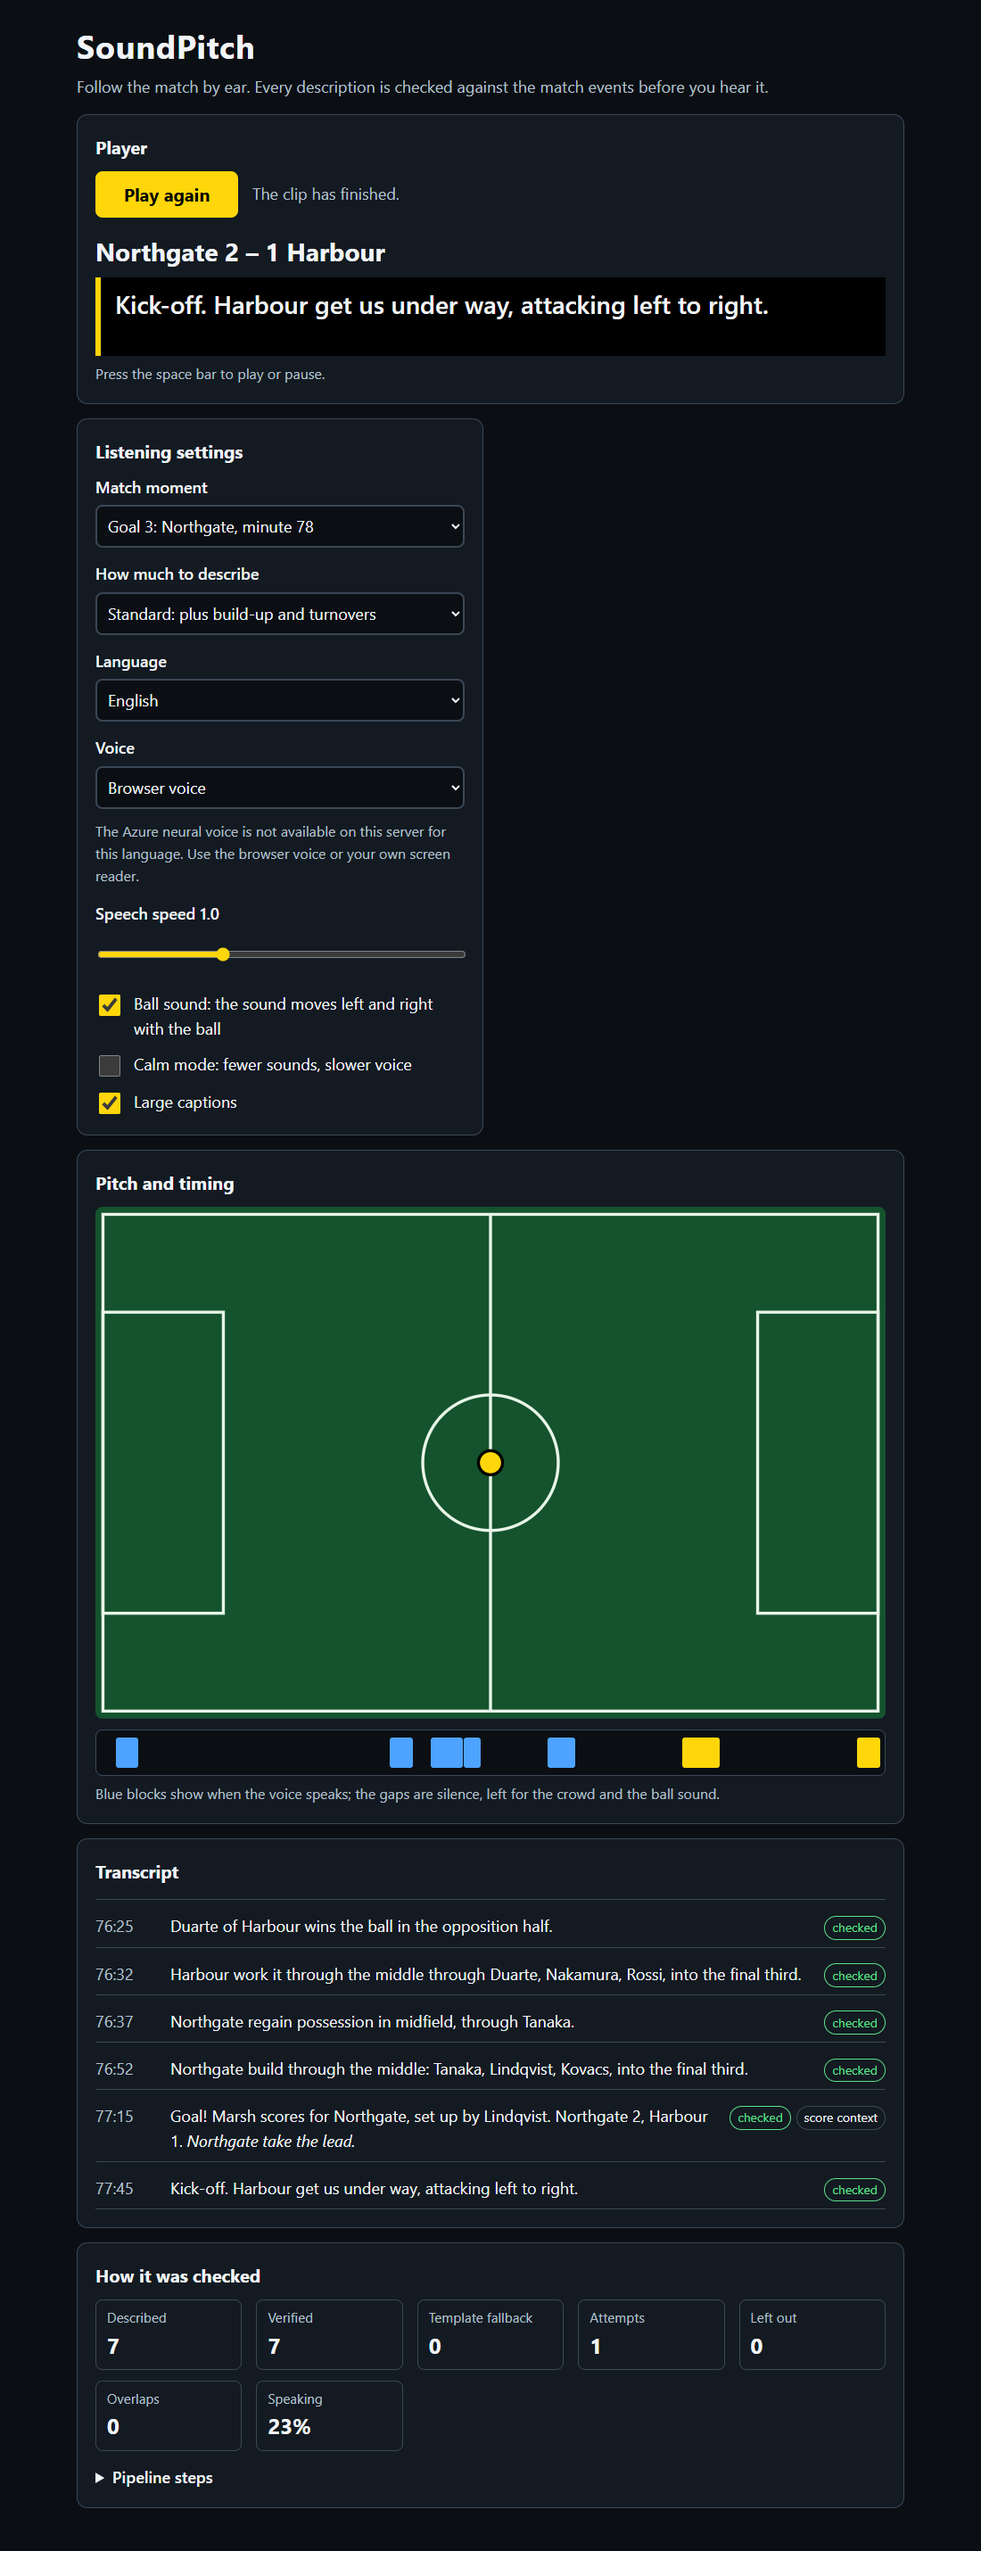
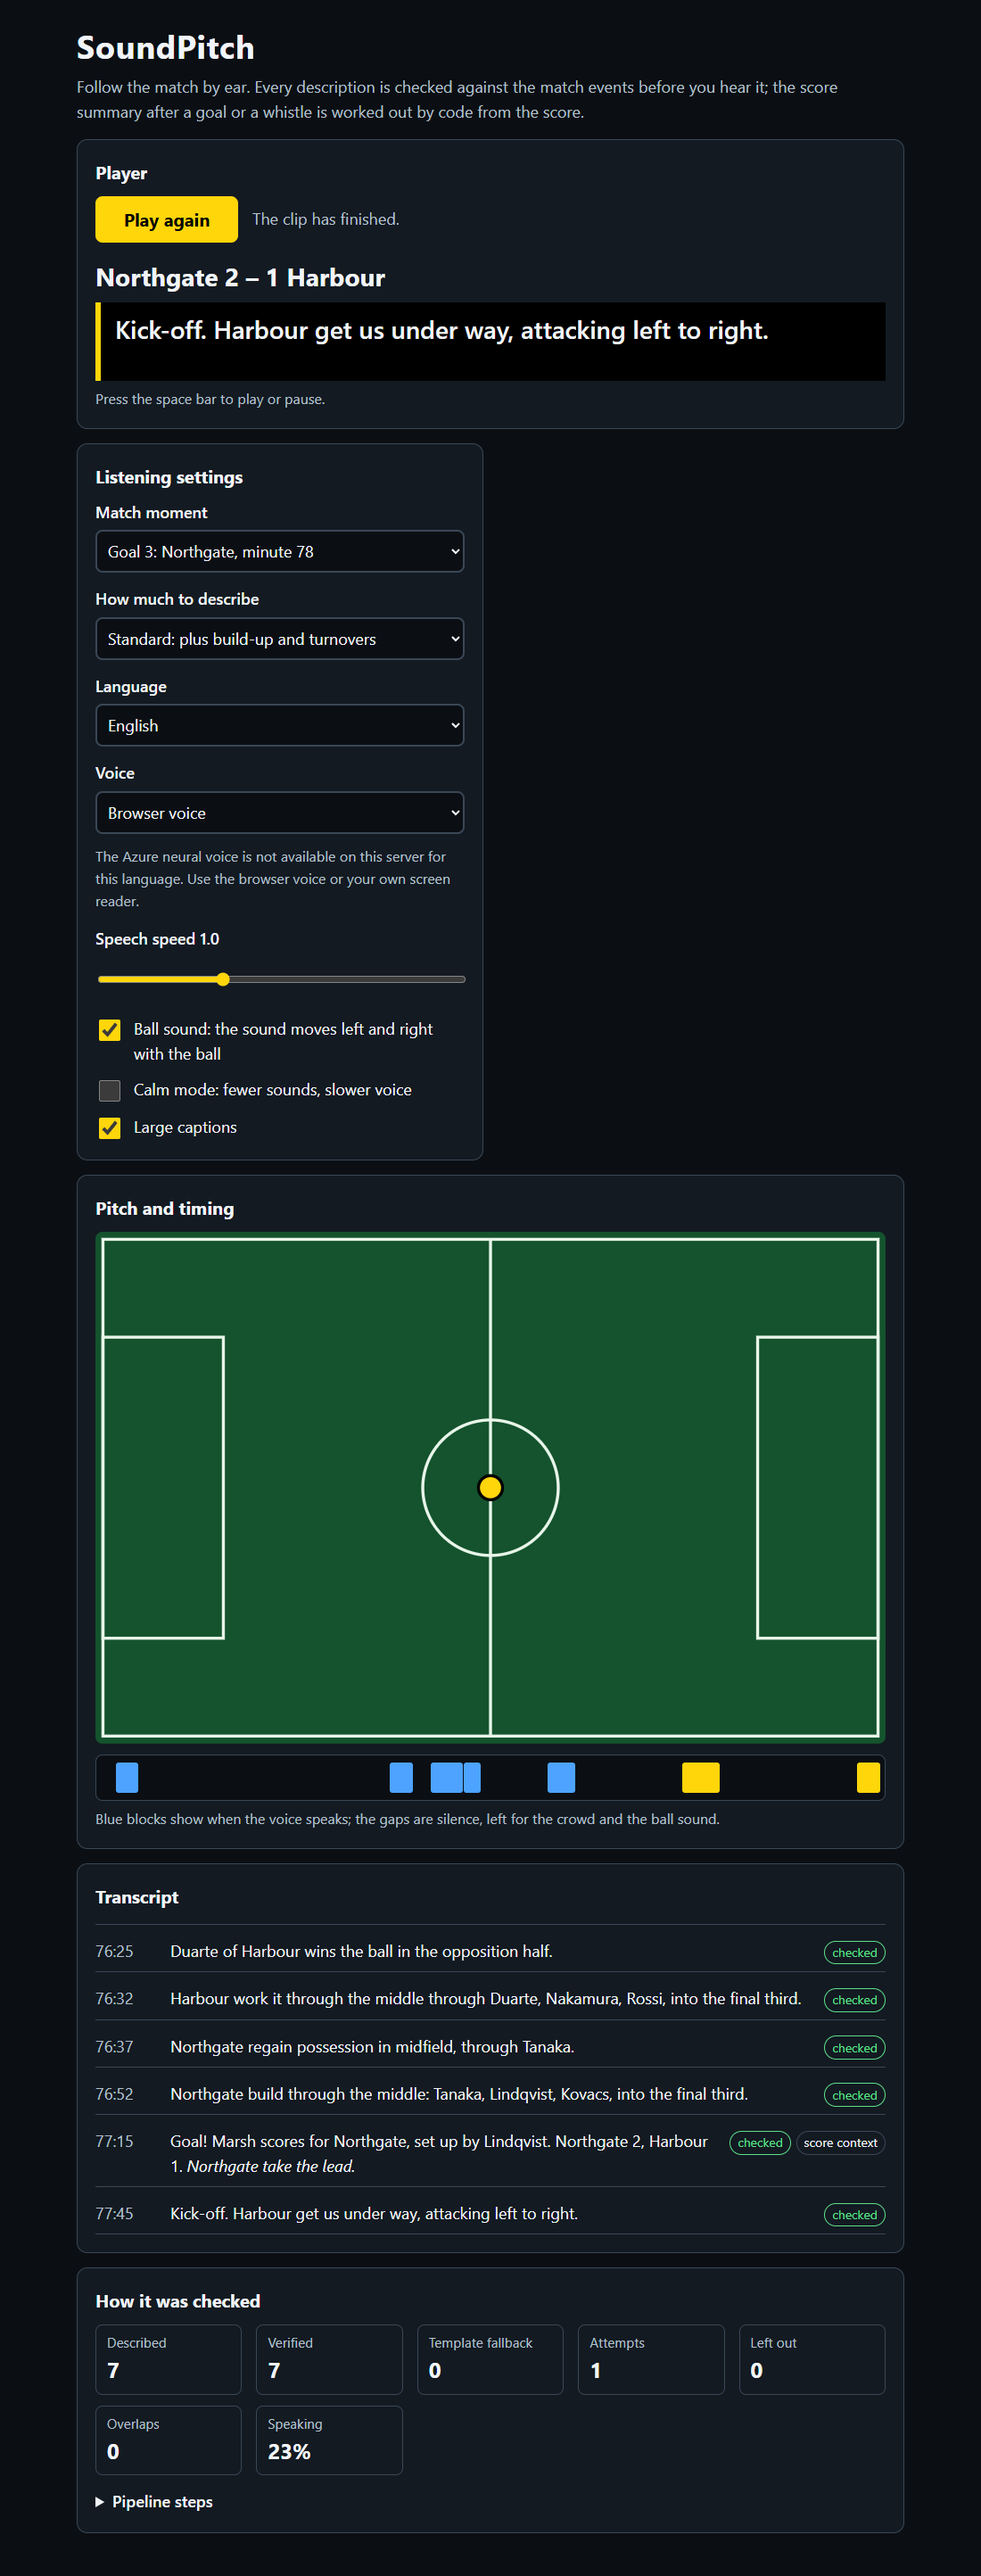
docs: qualify the verification claim, correct the D10 latency and stale evidence notes
- The page, pitch and demo script said every description is checked against
  the events; the score-context sentence (S31) is added after the verifier,
  so they now say it is computed by code. A test pins the page wording and
  the two README screenshots are retaken.
- D10 and T02 quoted a 2.7 s median and 4.7 s p95 that no recorded output
  supports; they now match docs/evidence/foundry-run.md (3.31 s, 4.52 s).
- Acceptance rows are S1-S32 (CLAUDE.md, README), the README status is
  dated 21 Oct, and the evidence notes no longer call the replay run
  pre-ledger or imply a Speech clip exists.

diff --git a/frontend/index.html b/frontend/index.html
@@ -16,7 +16,7 @@
     <header class="top">
       <h1>SoundPitch</h1>
       <p class="tagline">
-        Follow the match by ear. Every description is checked against the match events before you hear it.
+        Follow the match by ear. Every description is checked against the match events before you hear it; the score summary after a goal or a whistle is worked out by code from the score.
       </p>
     </header>
 

diff --git a/backend/tests/test_stakes.py b/backend/tests/test_stakes.py
@@ -227,3 +227,11 @@ def test_the_italian_phrases_use_the_singular_with_a_club_name():
     for plural in ("passano", "allungano", "aumentano", "accorciano", "vincono"):
         assert plural not in italian
     assert "{team}" in PHRASES["it"]["lead"] and PHRASES["it"]["lead"].startswith("{team} passa ")
+
+
+def test_the_page_does_not_say_the_score_context_is_checked_against_the_events():
+    """The context sentence is appended after the verifier, so the page's own claim must not cover it (S31)."""
+    page = (main.FRONTEND / "index.html").read_text(encoding="utf-8")
+    claim = page.split('class="tagline"')[1].split("</p>")[0]
+    assert "checked against the match events" in claim
+    assert "worked out by code from the score" in claim  # the claim names what the verifier does not cover

diff --git a/docs/DECISIONS.md b/docs/DECISIONS.md
@@ -59,7 +59,7 @@ The verifier now derives the facts of a moment from the events (`describer.facts
 
 **Azure setup (2026-10-20), and its limits.** A Foundry account and project (Italy North) on a **pay-as-you-go** subscription, and one deployment, `soundpitch-mini`: model `gpt-4.1-mini` (2025-04-14), SKU `GlobalStandard`. Capacity was 10 (10 requests and 10,000 tokens per minute) and was lowered in place to **8 (8 requests and 8,000 tokens a minute)** on 2026-10-20, see D11; above it the service answers 429, which the pipeline treats as a failed attempt. The cheapest model that gives the quality needed was chosen: list price USD 0.40 per million input tokens and 1.60 per million output tokens (checked 2026-10-20). A budget of 5 EUR a month with alerts at 50%, 100% and a forecast exists on the resource group, and **it only sends e-mail**: Azure has no pay-as-you-go cutoff, and cost data arrives 8 to 24 hours late. Data is processed outside the region (GlobalStandard); the match is synthetic. Authentication is `az login` (`DefaultAzureCredential`), no key anywhere. In the app, the usage ledger (D11) decides every call. Settings are in the git-ignored `backend/.env`.
 
-**Live acceptance (S12), 2026-10-20.** `docs/evidence/foundry-run.md`: 26 calls, 81 of 81 moments verified at the first attempt in each language, no failed call, median latency 2.7 s, p95 4.7 s. Two things the run taught: a first prompt answered for 1 moment of 10 (the example reply in the prompt had one item), fixed with `items_expected` and a test; and the model mostly **copies** the template sentences it is shown: its wording differs from every template sentence in only 1.2% of English cues and 16.0% of Italian ones. (The run predates D11: it used per-process caps raised for the run and 6,000 output tokens. A new full run would need the ledger limits raised on purpose and was not done.) The verifier is not what limits it: the vocabulary and the positions are. Whether to give the model more room (richer templates, a reviewed vocabulary) or to accept that Foundry mostly confirms the templates is a product decision, not a verifier setting.
+**Live acceptance (S12), 2026-10-20.** `docs/evidence/foundry-run.md`: 26 calls, 81 of 81 moments verified at the first attempt in each language, no failed call, median latency 3.31 s, p95 4.52 s, slowest 4.81 s (the figures the run printed and the evidence file records; an earlier draft of this paragraph said 2.7 s and 4.7 s, which no recorded output supports). Two things the run taught: a first prompt answered for 1 moment of 10 (the example reply in the prompt had one item), fixed with `items_expected` and a test; and the model mostly **copies** the template sentences it is shown: its wording differs from every template sentence in only 1.2% of English cues and 16.0% of Italian ones. (The run predates D11: it used per-process caps raised for the run and 6,000 output tokens. A new full run would need the ledger limits raised on purpose and was not done.) The verifier is not what limits it: the vocabulary and the positions are. Whether to give the model more room (richer templates, a reviewed vocabulary) or to accept that Foundry mostly confirms the templates is a product decision, not a verifier setting.
 
 **Undo.** `az cognitiveservices account deployment delete -n <account> -g <resource-group> --deployment-name soundpitch-mini` removes the deployment (the cost hardening did not delete it, and created nothing). Capacity is restored with `az cognitiveservices account deployment create ... --sku-capacity 10`.
 

diff --git a/docs/evidence/cost-safety.md b/docs/evidence/cost-safety.md
@@ -43,12 +43,12 @@ The first seven limits stop the call **before** it reaches Azure. The Azure rows
 |---|---|
 | `tests/test_usage.py` (18) and the S21 tests in `tests/test_foundry.py`, with fakes | pass: 40 threads against a cap of 10 grant exactly 10; 4 processes against a cap of 15 grant exactly 15; a new ledger on the same file continues the count; day and month roll over with the UTC clock; failed, timed-out and cancelled calls keep their worst case and a late answer is settled; reservations in flight count; an unusable database refuses before the client is touched; an unusable ledger, an exhausted day, token or month limit all end in verified templates with the reason in the trace |
 | Race found by those tests and fixed | the first connection of concurrent threads could hit `database is locked` while switching to WAL; the call was refused (fail closed, the cap was never overshot) but it was an availability bug. Initialisation now runs once per file and process, with a retry until the busy timeout; 8 repeated runs are green |
-| Core suite, ruff, e2e (Playwright and axe-core), SDK adapter tests (Python 3.13), evaluation reproducibility | `pytest` 237 passed, 1 skipped (the SDK file); `ruff check` clean; `npm run e2e` 11 passed; SDK tests 11 passed; `docs/evaluation.md` regenerates identical |
+| Core suite, ruff, e2e (Playwright and axe-core), SDK adapter tests (Python 3.13), evaluation reproducibility | At the time of this change (2026-10-20): `pytest` 237 passed, 1 skipped (the SDK file); `ruff check` clean; `npm run e2e` 11 passed; SDK tests 11 passed; `docs/evaluation.md` regenerates identical. These counts are a dated snapshot: the suites have grown since; the commands to rerun them are in the README, "Tests and evaluation" |
 | One live smoke call, through the ledger, with an output allowance of 150 tokens (`kickoff`, essential, English: one moment) | 1 call. The provider reported 686 input and 34 output tokens; the ledger settled the call at 720 tokens and 411 micro-units (0.000411): the list price 686 x 0.40 + 34 x 1.60 per million = USD 0.0003288, times 1.25, counted 1:1 as euros) from a reserved worst case several times larger; the moment verified. A second process read the same totals from the file |
 | Azure deployment, read-only first | one deployment `soundpitch-mini`, capacity 10, no provisioned throughput, budget 5 EUR with spend 0 |
 | Azure deployment, one change | capacity 10 to 8, in place, same model, version and SKU. Reason: the application allows 2 calls a minute and the service counts each at about 3,200 tokens (prompt plus the 1,000 `max_tokens`), so about 6,400 a minute are needed; 8,000 leaves a margin and lowers the burst possible with the credential. Reversible with the same command and `--sku-capacity 10` |
 
-No further live evaluation was run. `docs/evidence/foundry-run.md` predates the ledger.
+No further live evaluation was run for this table. The first run in `docs/evidence/foundry-run.md` predates the ledger; its second run (the one that produced the replay file) was made under it, with limits raised for that run only.
 
 ## What is not covered
 

diff --git a/docs/submission/DEMO_SCRIPT.md b/docs/submission/DEMO_SCRIPT.md
@@ -10,7 +10,7 @@ Before recording: use headphones for stereo, open the deployed URL in Chrome, se
 | 0:10 to 0:35 | Choose "Goal 1: Northgate, minute 16", press Play. Let the voice and the ball sound run; the ball moves on the pitch. | (silence for a few seconds so the audio is heard) then: "It speaks like a radio commentator, and a sound moves across your headphones with the ball." |
 | 0:35 to 0:55 | The goal is announced; captions show it; the scoreline changes. | "When the goal comes, you hear who scored, the score, and what it means: here, the opening goal of the match." |
 | 0:55 to 1:10 | Point to the timeline: speech blocks, gaps, the yellow must-say block. | "Speech is planned into the gaps. A goal is never pushed out by routine play." |
-| 1:10 to 1:35 | Second page on the `always_bad` server. Open the report: "Template fallback", attempts 3. Open "Pipeline steps". Transcript badges say "template". | "Every name, team and score in a sentence is checked against the match events before it is spoken. Here a model keeps naming the wrong player. The verifier rejects it three times and a verified template takes over. The listener never hears a wrong name." |
+| 1:10 to 1:35 | Second page on the `always_bad` server. Open the report: "Template fallback", attempts 3. Open "Pipeline steps". Transcript badges say "template". | "Every name, team and score in a described sentence is checked against the match events before it is spoken; the score summary after a goal is computed by code. Here a model keeps naming the wrong player. The verifier rejects it three times and a verified template takes over. The listener never hears a wrong name." |
 | 1:35 to 1:48 | Switch to Italian, then calm mode, then "My own screen reader". | "Italian or English, a calm mode, large captions, or plain text for your own screen reader." |
 | 1:48 to 1:55 | Title card with the URL and the technologies. | "Built on [confirm: Microsoft Foundry, Agent Framework, Azure AI Speech, Azure Container Apps]. Open source." |
 

diff --git a/README.md b/README.md
@@ -4,7 +4,7 @@
 
 Built for the [Microsoft x Premier League "Inside the Game" hackathon](docs/hackathon/SUMMARY.md). All data is synthetic: the teams (Northgate Red, Harbour Blue) and the players are invented. This project is not affiliated with, endorsed by or sponsored by Microsoft or the Premier League.
 
-> **Status (20 Oct 2026).** Done and tested: the offline pipeline, the player page, the grounded verifier, the Foundry describer, the usage ledger, the replay mode with 26 recorded Foundry replies that cover all 30 demo windows, the guarded voice endpoint, the cue-sheet JSON export, the score-context sentence (S31) and the Agent Framework workflow. **Not done:** no public deployment yet (so no demo URL), Azure AI Speech has never been called (no voice clip exists, so the demo speaks with the browser's own voice), no blind or low-vision listener has tested it. Plan and deadline: [`ROADMAP.md`](ROADMAP.md).
+> **Status (21 Oct 2026).** Done and tested: the offline pipeline, the player page, the grounded verifier, the Foundry describer, the usage ledger, the replay mode with 26 recorded Foundry replies that cover all 30 demo windows, the guarded voice endpoint, the cue-sheet JSON export, the score-context sentence (S31) and the Agent Framework workflow. **Not done:** no public deployment yet (so no demo URL), Azure AI Speech has never been called (no voice clip exists, so the demo speaks with the browser's own voice), no blind or low-vision listener has tested it. Plan and deadline: [`ROADMAP.md`](ROADMAP.md).
 
 ## For judges
 
@@ -154,7 +154,7 @@ This repository was written with the help of an AI coding assistant (Claude Code
 ## Repository map
 
 ```
-SPEC.md            behaviour, test ids, acceptance rows S1-S31
+SPEC.md            behaviour, test ids, acceptance rows S1-S32
 CONTEXT.md         glossary and the map of the data contracts
 ROADMAP.md         done, tickets, schedule
 CLAUDE.md          instructions for the coding assistant used on this repo

diff --git a/docs/evidence/README.md b/docs/evidence/README.md
@@ -1,7 +1,7 @@
 # Evidence
 
-Small files that prove a manual acceptance row (SPEC S12, S14 and S21): a short mp3 from Azure AI Speech, a screenshot of the page using it, and the output of a real model run. Keep each file small, and never include keys, endpoints with secrets, or personal data.
+Small files that prove a manual acceptance row (SPEC S12, S14 and S21). Today that is the output of the real model runs and the cost-limit record; **the short Azure AI Speech clip and the screenshot of the page using it that S14 asks for do not exist yet** (Speech has never been called). Keep each file small, and never include keys, endpoints with secrets, or personal data.
 
-- `foundry-run.md` is written by `python -m app.foundry_run`. **The committed one is from 2026-10-20, before the cost ledger existed**: it used limits raised for that run and 6,000 output tokens a call, and it cannot be reproduced under the shipped limits (26 calls against 20 a day) without raising them on purpose. It was one run of one deployment. Recording the replay file (T11) regenerates it under the ledger.
+- `foundry-run.md` is written by `python -m app.foundry_run`. It holds two runs of 2026-10-20: run 1 came before the cost ledger (limits raised for that run, 6,000 output tokens a call), run 2 was made under the ledger with limits raised on purpose and produced the replay file (T11). Neither can be reproduced under the shipped limits (26 calls against 20 a day) without raising them on purpose, and a new run needs the owner's approval. It is one deployment on one day.
 - `cost-safety.md` records the cost limits of the live model (S21) and what they do not cover.
 - What can be reproduced offline, with no model: `python -m app.evaluate --seeds 20` (regenerates `docs/evaluation.md` identically), the whole test suite, and the replay of a recorded run (`python -m app.replay_export --check`).

diff --git a/docs/tickets/T02-foundry-describer.md b/docs/tickets/T02-foundry-describer.md
@@ -21,7 +21,7 @@
 | The adapter against the real SDK types, network stubbed (`backend/tests/test_foundry_sdk.py`) | done in the Python 3.13 environment with `requirements-agents.txt`; skipped in the core environment |
 | `backend/app/foundry.py`, wiring in `pipeline.py` and `main.py`, `requirements-agents.txt` | done |
 | `python -m app.foundry_run` and its tests | done |
-| **S12, a real request against a Foundry deployment** | **done 2026-10-20**: `docs/evidence/foundry-run.md` (26 calls, 81 of 81 moments verified at attempt 1 in each language, median 2.7 s). The model copies the templates in 98.8% (en) and 84.0% (it) of cues; see D10. The cost hardening of 2026-10-20 (D11, S21) came after this run |
+| **S12, a real request against a Foundry deployment** | **done 2026-10-20**: `docs/evidence/foundry-run.md` (26 calls, 81 of 81 moments verified at attempt 1 in each language, median 3.31 s, p95 4.52 s). The model copies the templates in 98.8% (en) and 84.0% (it) of cues; see D10. The cost hardening of 2026-10-20 (D11, S21) came after this run |
 
 ## Independent review of the failure paths
 

diff --git a/docs/submission/PITCH.md b/docs/submission/PITCH.md
@@ -4,7 +4,7 @@ Status: a draft. Replace every `[confirm]` before submitting, and delete any tec
 
 ## One sentence
 
-SoundPitch lets a blind or low-vision fan follow a football match by ear: a timed audio description, a ball sound that moves left and right with the play, and captions, with every description checked against the match events before it is spoken.
+SoundPitch lets a blind or low-vision fan follow a football match by ear: a timed audio description, a ball sound that moves left and right with the play, and captions, with every description checked against the match events before it is spoken (the score summary after a goal or a whistle is computed from the score by code).
 
 ## Pitch (about 150 words)
 

diff --git a/CLAUDE.md b/CLAUDE.md
@@ -6,7 +6,7 @@ Audio-first match companion for blind and low-vision fans, built for the Microso
 
 The spec is the authority; code follows it.
 
-- [`SPEC.md`](SPEC.md): behaviour, pinned numbers, UI test ids, acceptance rows `S1` to `S31`.
+- [`SPEC.md`](SPEC.md): behaviour, pinned numbers, UI test ids, acceptance rows `S1` to `S32`.
 - [`CONTEXT.md`](CONTEXT.md): glossary and the map of the contracts. `backend/app/contracts.py` is the single source of the field-level contracts.
 - [`ROADMAP.md`](ROADMAP.md) and [`docs/tickets/`](docs/tickets/): the work items `T01` to `T11`, each citing the acceptance rows it satisfies.
 - [`docs/DECISIONS.md`](docs/DECISIONS.md): why things are the way they are.
